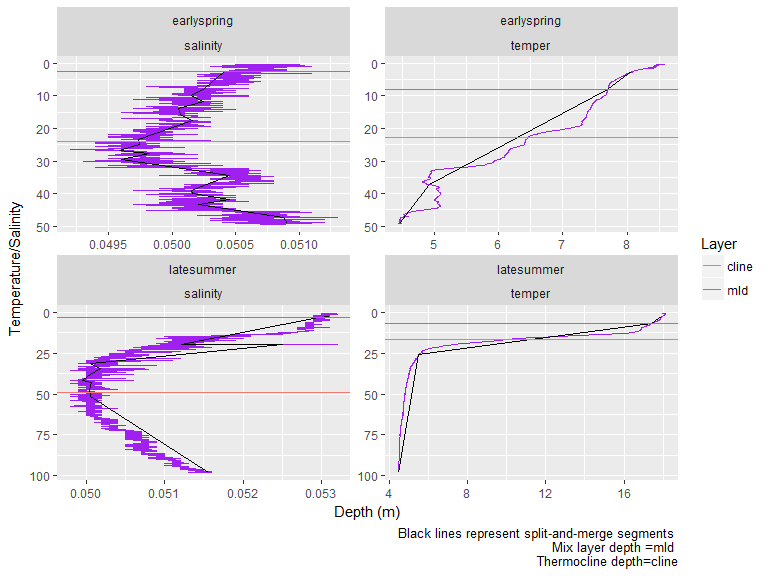
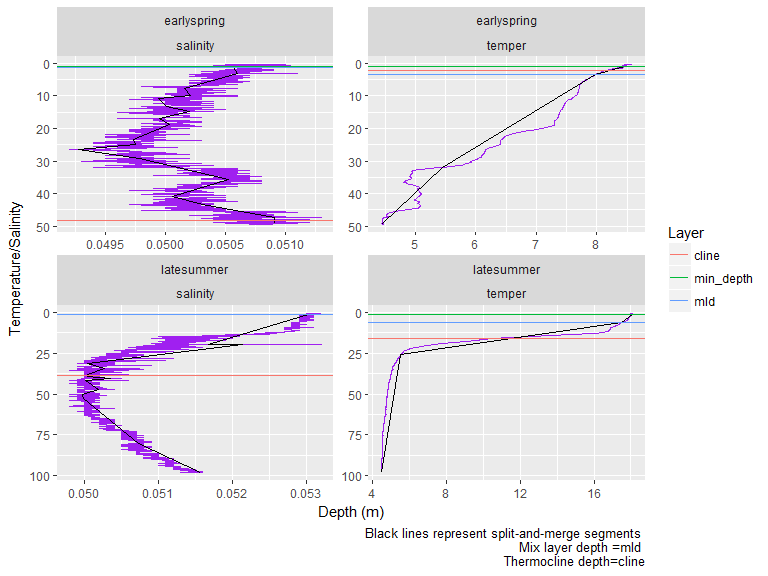
Update vignette

diff --git a/vignettes/limnotools.md b/vignettes/limnotools.md
@@ -1,7 +1,7 @@
 Limnotools Usage
 ================
 Sam Albers and Doug Collinge
-2017-02-04
+2017-02-06
 
 Package loading
 ---------------
@@ -17,7 +17,8 @@ library(tidyverse)
 TO install limnotools, you need the devtools package installed. Then you can install limntools in R from github like this:
 
 ``` r
-devtools::install_github("boshek/limnotools")
+#devtools::install_github("boshek/limnotools")
+devtools::install_github("boshek/limnotools", ref="sam_exp")
 
 library(limnotools)
 ```
@@ -47,8 +48,8 @@ wldf <- wtr_layer(depth = latesummer$depth, measure = latesummer$temper)
 wldf
 ```
 
-    ##   nseg      mld    cline
-    ## 1    4 6.718292 16.33231
+    ##   min_depth nseg      mld    cline
+    ## 1         1    4 6.182394 15.95489
 
 Note that the axes of the water column profile have been reversed and flipped to better visualize the water column and conform to standard limnological displays.
 
@@ -94,19 +95,23 @@ wl_df <- wtrprof_df %>%
 wl_df
 ```
 
-    ## Source: local data frame [8 x 4]
+    ## Source: local data frame [12 x 4]
     ## Groups: variable, group [4]
     ## 
-    ##   variable       group Layer     value
-    ##      <chr>       <chr> <chr>     <dbl>
-    ## 1 salinity earlyspring   mld  2.634726
-    ## 2 salinity  latesummer   mld  2.896572
-    ## 3   temper earlyspring   mld  8.073714
-    ## 4   temper  latesummer   mld  6.718292
-    ## 5 salinity earlyspring cline 24.069020
-    ## 6 salinity  latesummer cline 49.175213
-    ## 7   temper earlyspring cline 22.636168
-    ## 8   temper  latesummer cline 16.332306
+    ##    variable       group     Layer     value
+    ##       <chr>       <chr>     <chr>     <dbl>
+    ## 1  salinity earlyspring min_depth  1.000000
+    ## 2  salinity  latesummer min_depth  1.000000
+    ## 3    temper earlyspring min_depth  1.000000
+    ## 4    temper  latesummer min_depth  1.000000
+    ## 5  salinity earlyspring       mld  1.102604
+    ## 6  salinity  latesummer       mld  1.326494
+    ## 7    temper earlyspring       mld  3.518704
+    ## 8    temper  latesummer       mld  6.182394
+    ## 9  salinity earlyspring     cline 48.307158
+    ## 10 salinity  latesummer     cline 38.534828
+    ## 11   temper earlyspring     cline  2.265352
+    ## 12   temper  latesummer     cline 15.954893
 
 The same applies to wtr\_segments()
 
@@ -117,22 +122,22 @@ s_df <- wtrprof_df %>%
 s_df
 ```
 
-    ## Source: local data frame [40 x 5]
+    ## Source: local data frame [42 x 6]
     ## Groups: variable, group [4]
     ## 
-    ##    variable       group  nseg     depth    measure
-    ##       <chr>       <chr> <dbl>     <dbl>      <dbl>
-    ## 1  salinity earlyspring    20  2.547000 0.05080000
-    ## 2  salinity earlyspring    20  2.634726 0.05041180
-    ## 3  salinity earlyspring    20  7.722812 0.05025533
-    ## 4  salinity earlyspring    20  9.769743 0.05015157
-    ## 5  salinity earlyspring    20 11.699707 0.05024573
-    ## 6  salinity earlyspring    20 13.922089 0.05005259
-    ## 7  salinity earlyspring    20 15.676602 0.05006517
-    ## 8  salinity earlyspring    20 17.431114 0.05016102
-    ## 9  salinity earlyspring    20 23.279489 0.04973940
-    ## 10 salinity earlyspring    20 24.858551 0.04974008
-    ## # ... with 30 more rows
+    ##    variable       group min_depth  nseg     depth    measure
+    ##       <chr>       <chr>     <dbl> <dbl>     <dbl>      <dbl>
+    ## 1  salinity earlyspring         1    19  1.012000 0.05060000
+    ## 2  salinity earlyspring         1    19  1.102604 0.05056689
+    ## 3  salinity earlyspring         1    19  3.035484 0.05060042
+    ## 4  salinity earlyspring         1    19  7.686476 0.05015367
+    ## 5  salinity earlyspring         1    19  9.800564 0.05020636
+    ## 6  salinity earlyspring         1    19 10.887809 0.04994234
+    ## 7  salinity earlyspring         1    19 13.122701 0.05001027
+    ## 8  salinity earlyspring         1    19 14.874374 0.05020085
+    ## 9  salinity earlyspring         1    19 16.807254 0.04994953
+    ## 10 salinity earlyspring         1    19 18.740134 0.05002944
+    ## # ... with 32 more rows
 
 Lastly we plot the mix layer and cline depths and segments over the water profiles using the same limnological visualization convention described above and using ggplot2 (part of the tidyverse).
 
